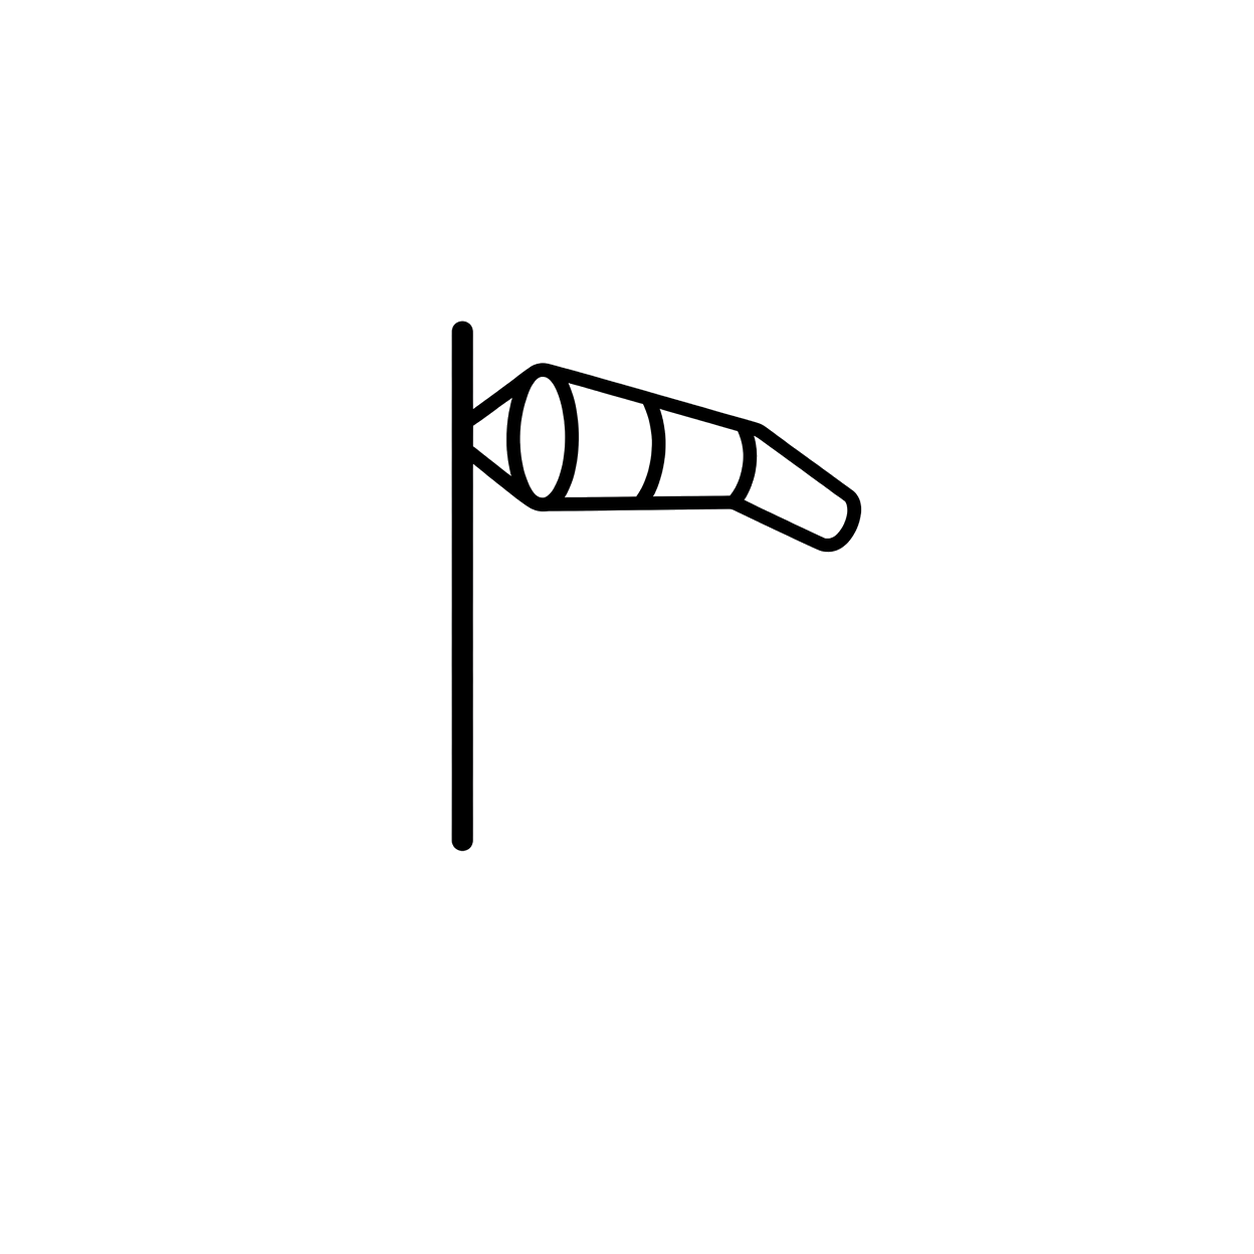
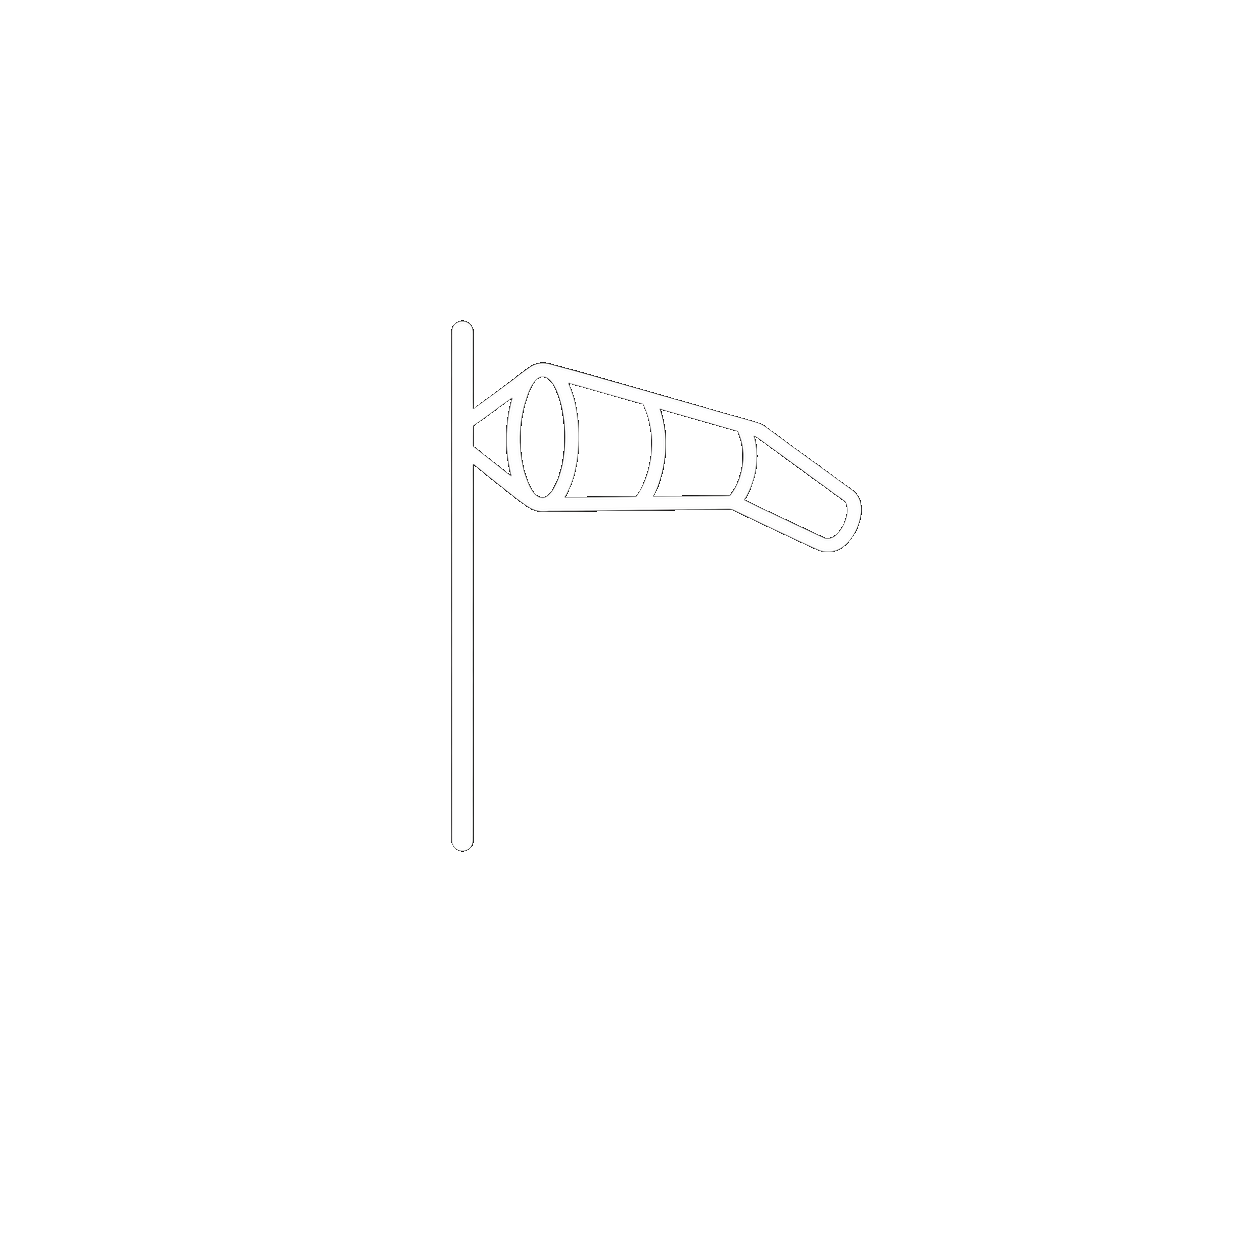
White transparent windsock, no CSS filter needed

Changed region(s): [[0.3421, 0.2488, 0.6842, 0.6842]]

diff --git a/app/components/Nav.tsx b/app/components/Nav.tsx
@@ -32,7 +32,7 @@ export default function Nav() {
           style={{ color: '#fdfcf8', width: 336, marginLeft: -24 }}
         >
           {/* eslint-disable-next-line @next/next/no-img-element */}
-          <img src="/windsock.png" alt="" width={92} height={92} style={{ filter: 'invert(1)', objectFit: 'contain' }} />
+          <img src="/windsock.png" alt="" width={92} height={92} style={{ objectFit: 'contain' }} />
           <span
             className="font-semibold text-sm"
             style={{ letterSpacing: '0.22em', textTransform: 'uppercase' }}
